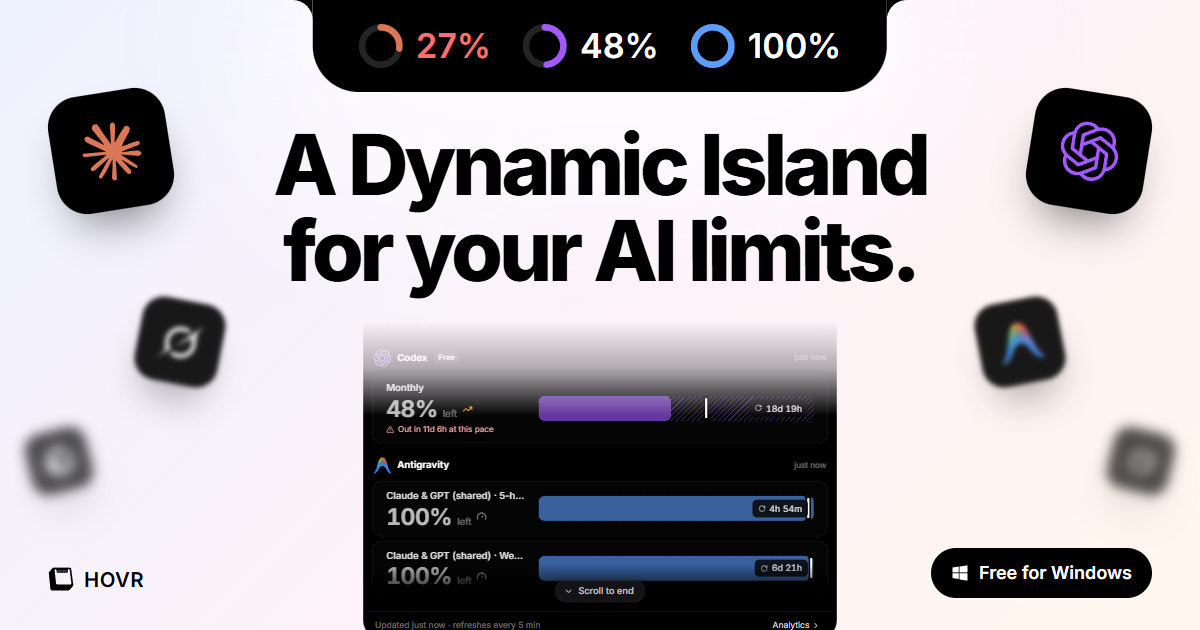
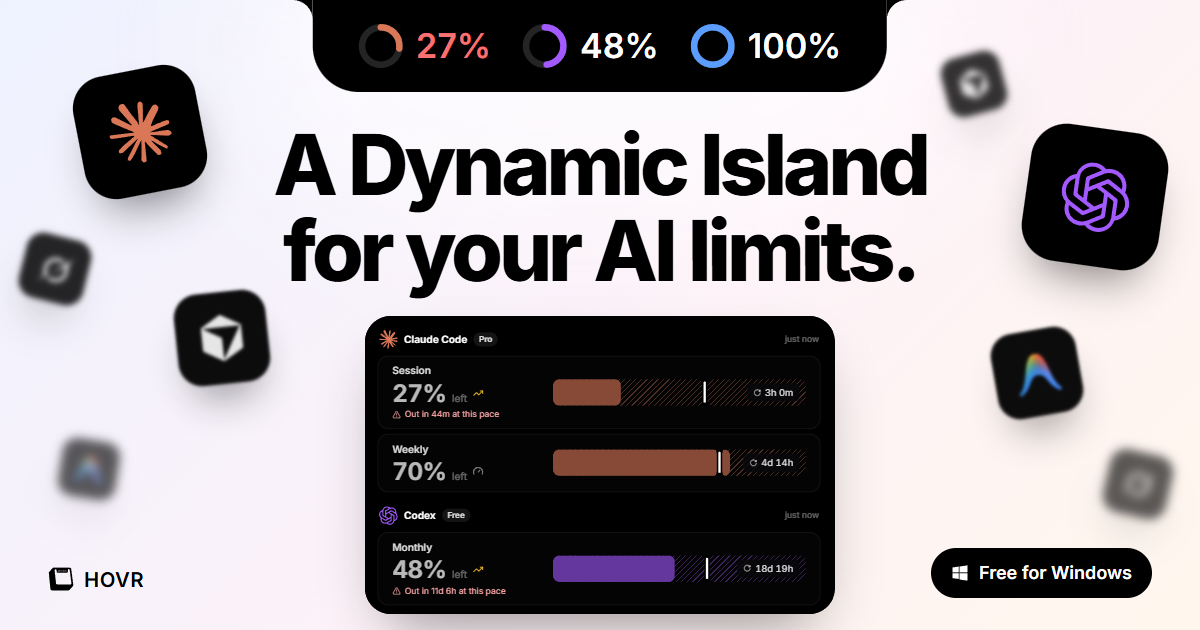
feat(website): OG card scattered tiles, bare Claude and Codex usage cards

diff --git a/website/src/components/OgLight.tsx b/website/src/components/OgLight.tsx
@@ -1,7 +1,7 @@
 'use client'
 
-import { useEffect } from 'react'
-import { Notch as RealNotch } from '@/hovr/src/components/Notch'
+import { useEffect, useState } from 'react'
+import { UsageView } from '@/hovr/src/components/UsageView'
 import { useStore } from '@/hovr/src/store/appStore'
 
 import { Logo } from '@/hovr/src/components/Logo'
@@ -63,26 +63,33 @@ const Stage = ({ bg, children }: { bg: string; children: React.ReactNode }) => (
 )
 
 const TILES: Array<{ id: ProviderId; x: number; y: number; size: number; rot: number; blur: number; o: number; side: 'l' | 'r' }> = [
-  { id: 'claude', side: 'l', x: 52, y: 92, size: 118, rot: -9, blur: 0, o: 1 },
-  { id: 'grok', side: 'l', x: 138, y: 300, size: 84, rot: 11, blur: 2.5, o: 0.9 },
-  { id: 'cursor', side: 'l', x: 28, y: 430, size: 62, rot: -14, blur: 6, o: 0.7 },
-  { id: 'codex', side: 'r', x: 52, y: 92, size: 118, rot: 9, blur: 0, o: 1 },
-  { id: 'antigravity', side: 'r', x: 138, y: 300, size: 84, rot: -11, blur: 2.5, o: 0.9 },
-  { id: 'grok', side: 'r', x: 28, y: 430, size: 62, rot: 14, blur: 6, o: 0.7 }
+  { id: 'claude', side: 'l', x: 78, y: 70, size: 124, rot: -11, blur: 0, o: 1 },
+  { id: 'grok', side: 'l', x: 22, y: 236, size: 66, rot: 14, blur: 3, o: 0.85 },
+  { id: 'cursor', side: 'l', x: 176, y: 292, size: 92, rot: -6, blur: 1.5, o: 0.95 },
+  { id: 'antigravity', side: 'l', x: 60, y: 440, size: 58, rot: 9, blur: 5, o: 0.65 },
+  { id: 'codex', side: 'r', x: 36, y: 128, size: 138, rot: 8, blur: 0, o: 1 },
+  { id: 'cursor', side: 'r', x: 196, y: 54, size: 60, rot: -15, blur: 3.5, o: 0.8 },
+  { id: 'antigravity', side: 'r', x: 120, y: 330, size: 86, rot: -10, blur: 1.5, o: 0.95 },
+  { id: 'grok', side: 'r', x: 30, y: 452, size: 64, rot: 13, blur: 5, o: 0.65 }
 ]
 
-/** The real HOVR panel on sample data, scaled to sit at the bottom of the card. */
+/** The real usage cards (Claude Code and Codex) on sample data, without the drawer around them. */
 function RealPanel() {
+  const [ready, setReady] = useState(false)
   useEffect(() => {
-    void useStore.getState().hydrate().then(() => useStore.setState({ open: true, view: 'usage' }))
-    useStore.setState({ open: true, view: 'usage' })
+    void useStore.getState().hydrate()
+    setReady(true)
   }, [])
+  if (!ready) return null
   return (
-    <div className="absolute left-1/2 top-[320px] h-[310px] w-[476px] -translate-x-1/2 overflow-hidden">
-      <div className="hovr-stage absolute left-1/2 top-[-175px] origin-top" style={{ width: 1080, height: 770, transform: 'translateX(-50%) scale(0.74)' }}>
-        <RealNotch />
+    <div className="absolute left-1/2 top-[316px] h-[298px] w-[470px] -translate-x-1/2 overflow-hidden rounded-[26px] bg-black shadow-[0_30px_60px_-24px_rgba(0,0,0,0.45)]">
+      <div className="hovr-stage absolute left-0 top-0 origin-top-left" style={{ width: 600, height: 520, transform: 'scale(0.78)', background: '#000' }}>
+        <div className="notch is-open" style={{ position: 'static', width: 600, transform: 'none', background: 'transparent', boxShadow: 'none', border: 0 }}>
+          <div className="nbody" style={{ padding: '14px 16px' }}>
+            <UsageView />
+          </div>
+        </div>
       </div>
-      <div aria-hidden className="absolute inset-x-0 top-0 h-24 bg-gradient-to-b from-[#fcf4fa] via-[#fcf4fa]/70 to-transparent" />
     </div>
   )
 }
